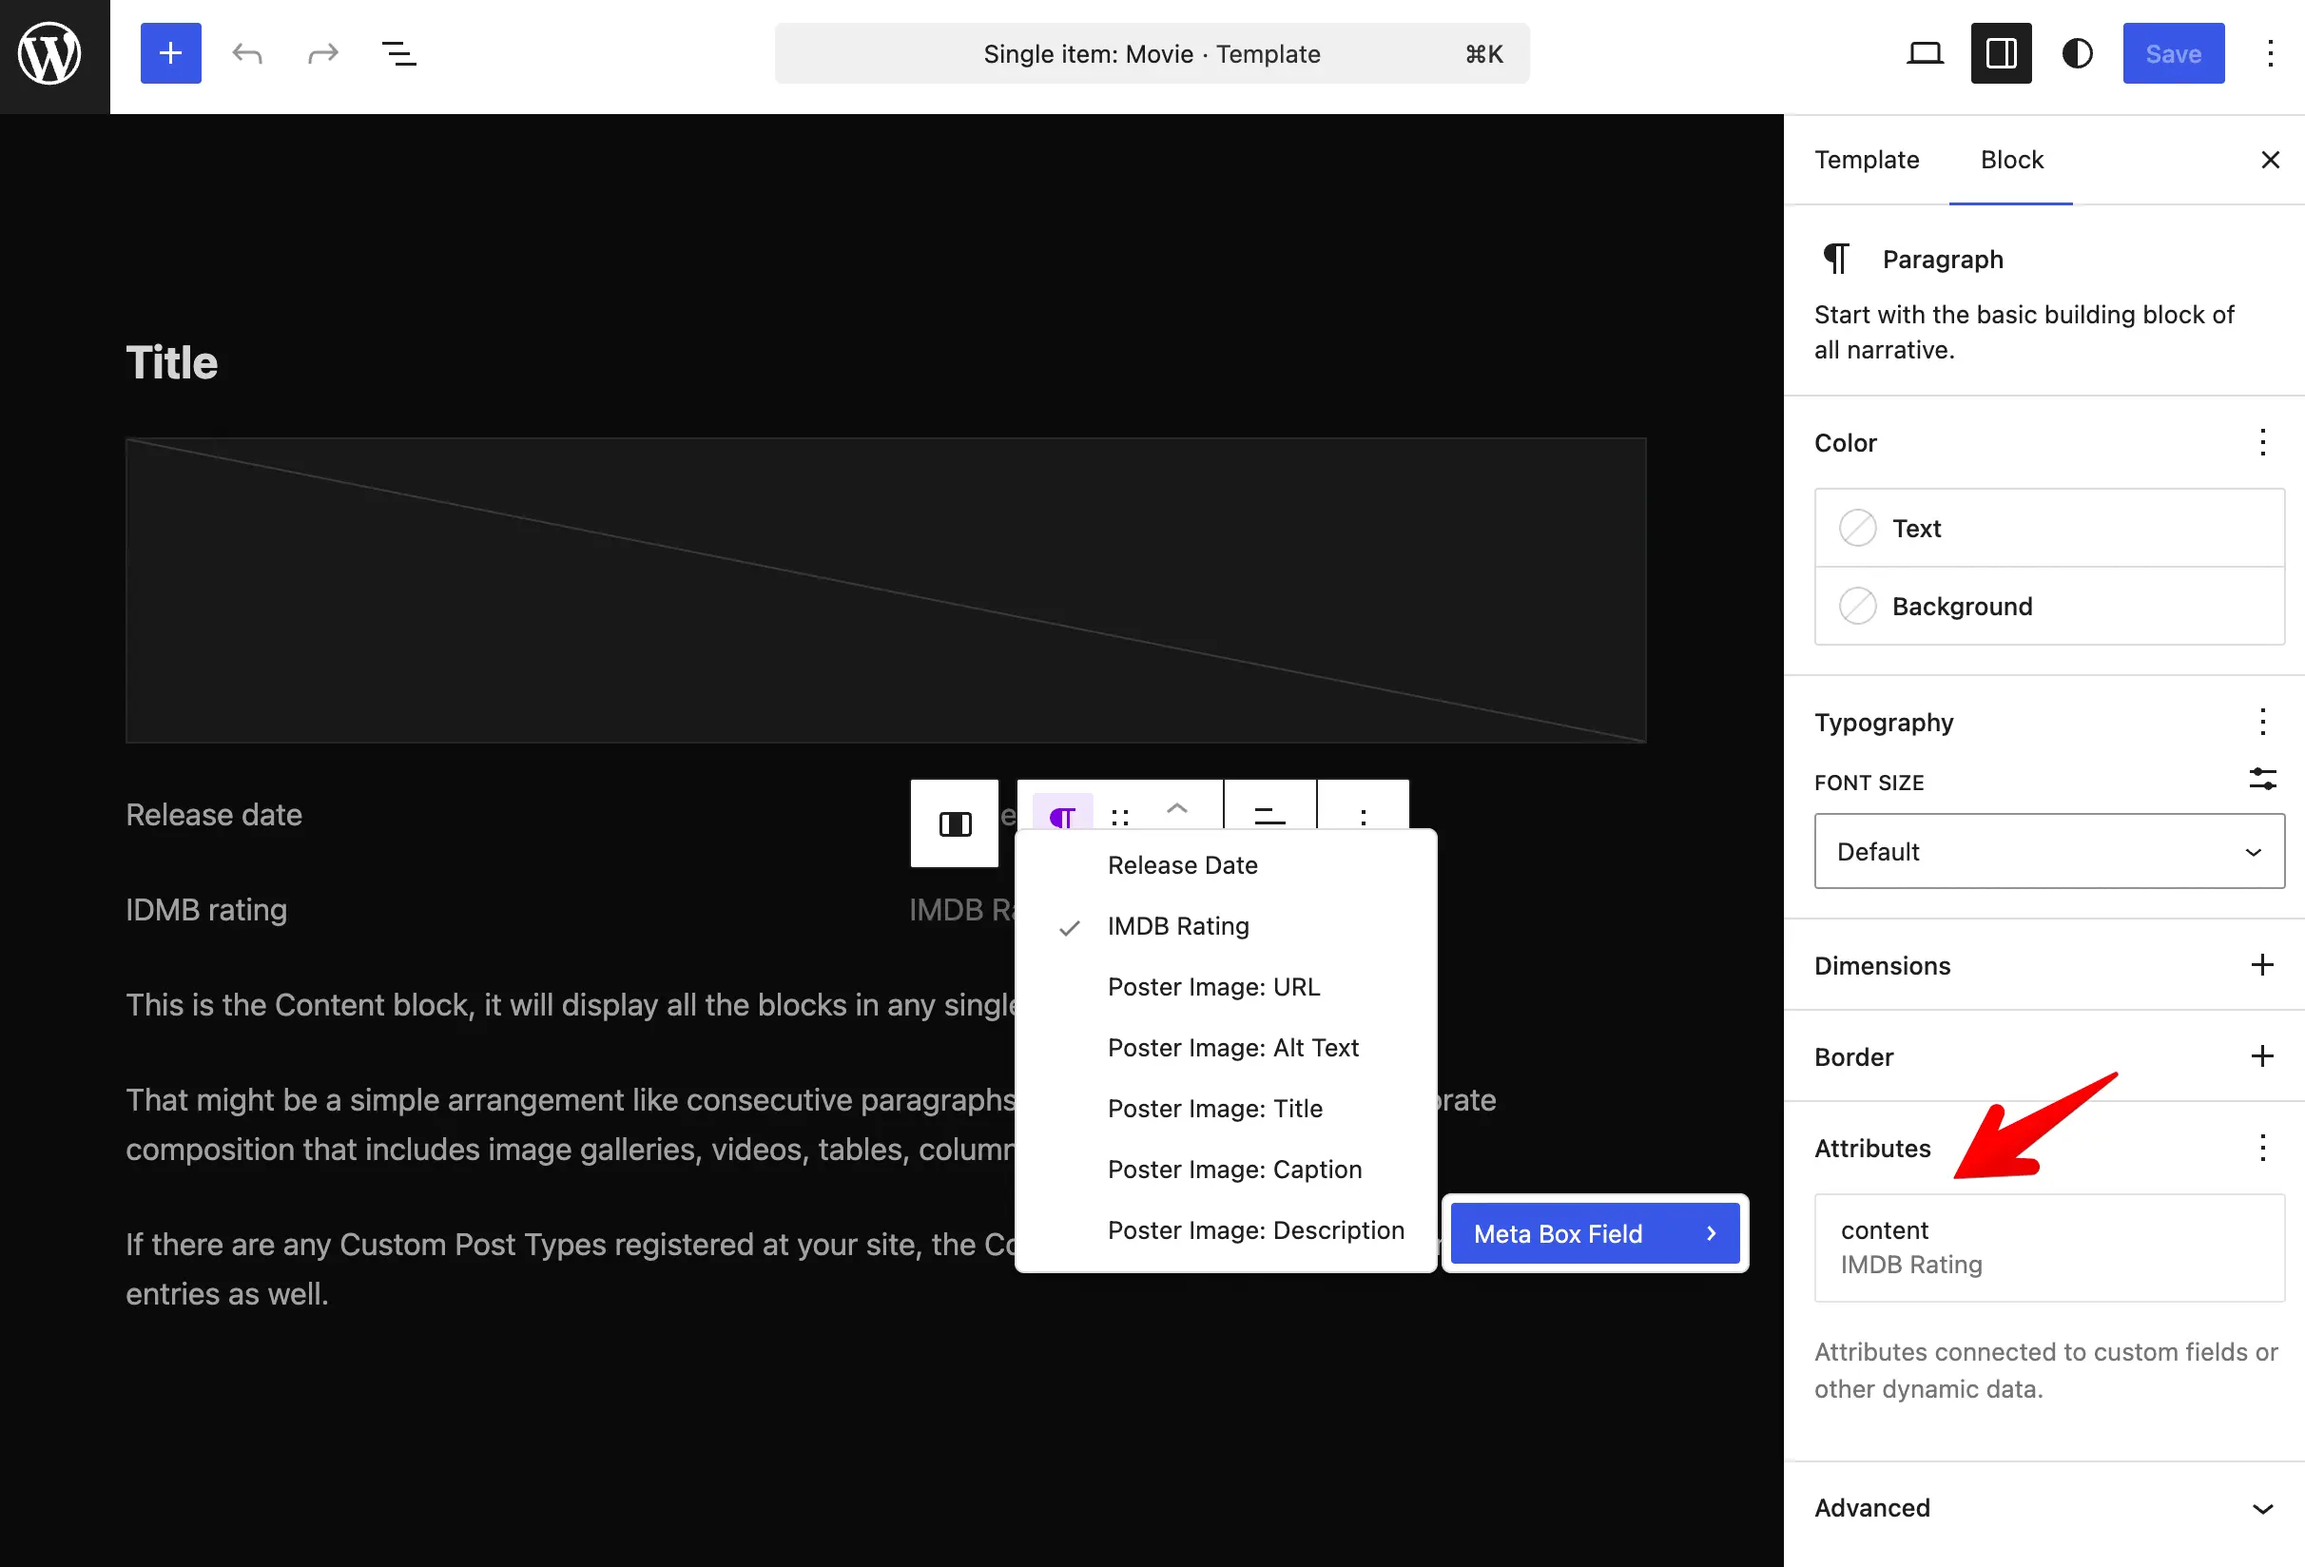
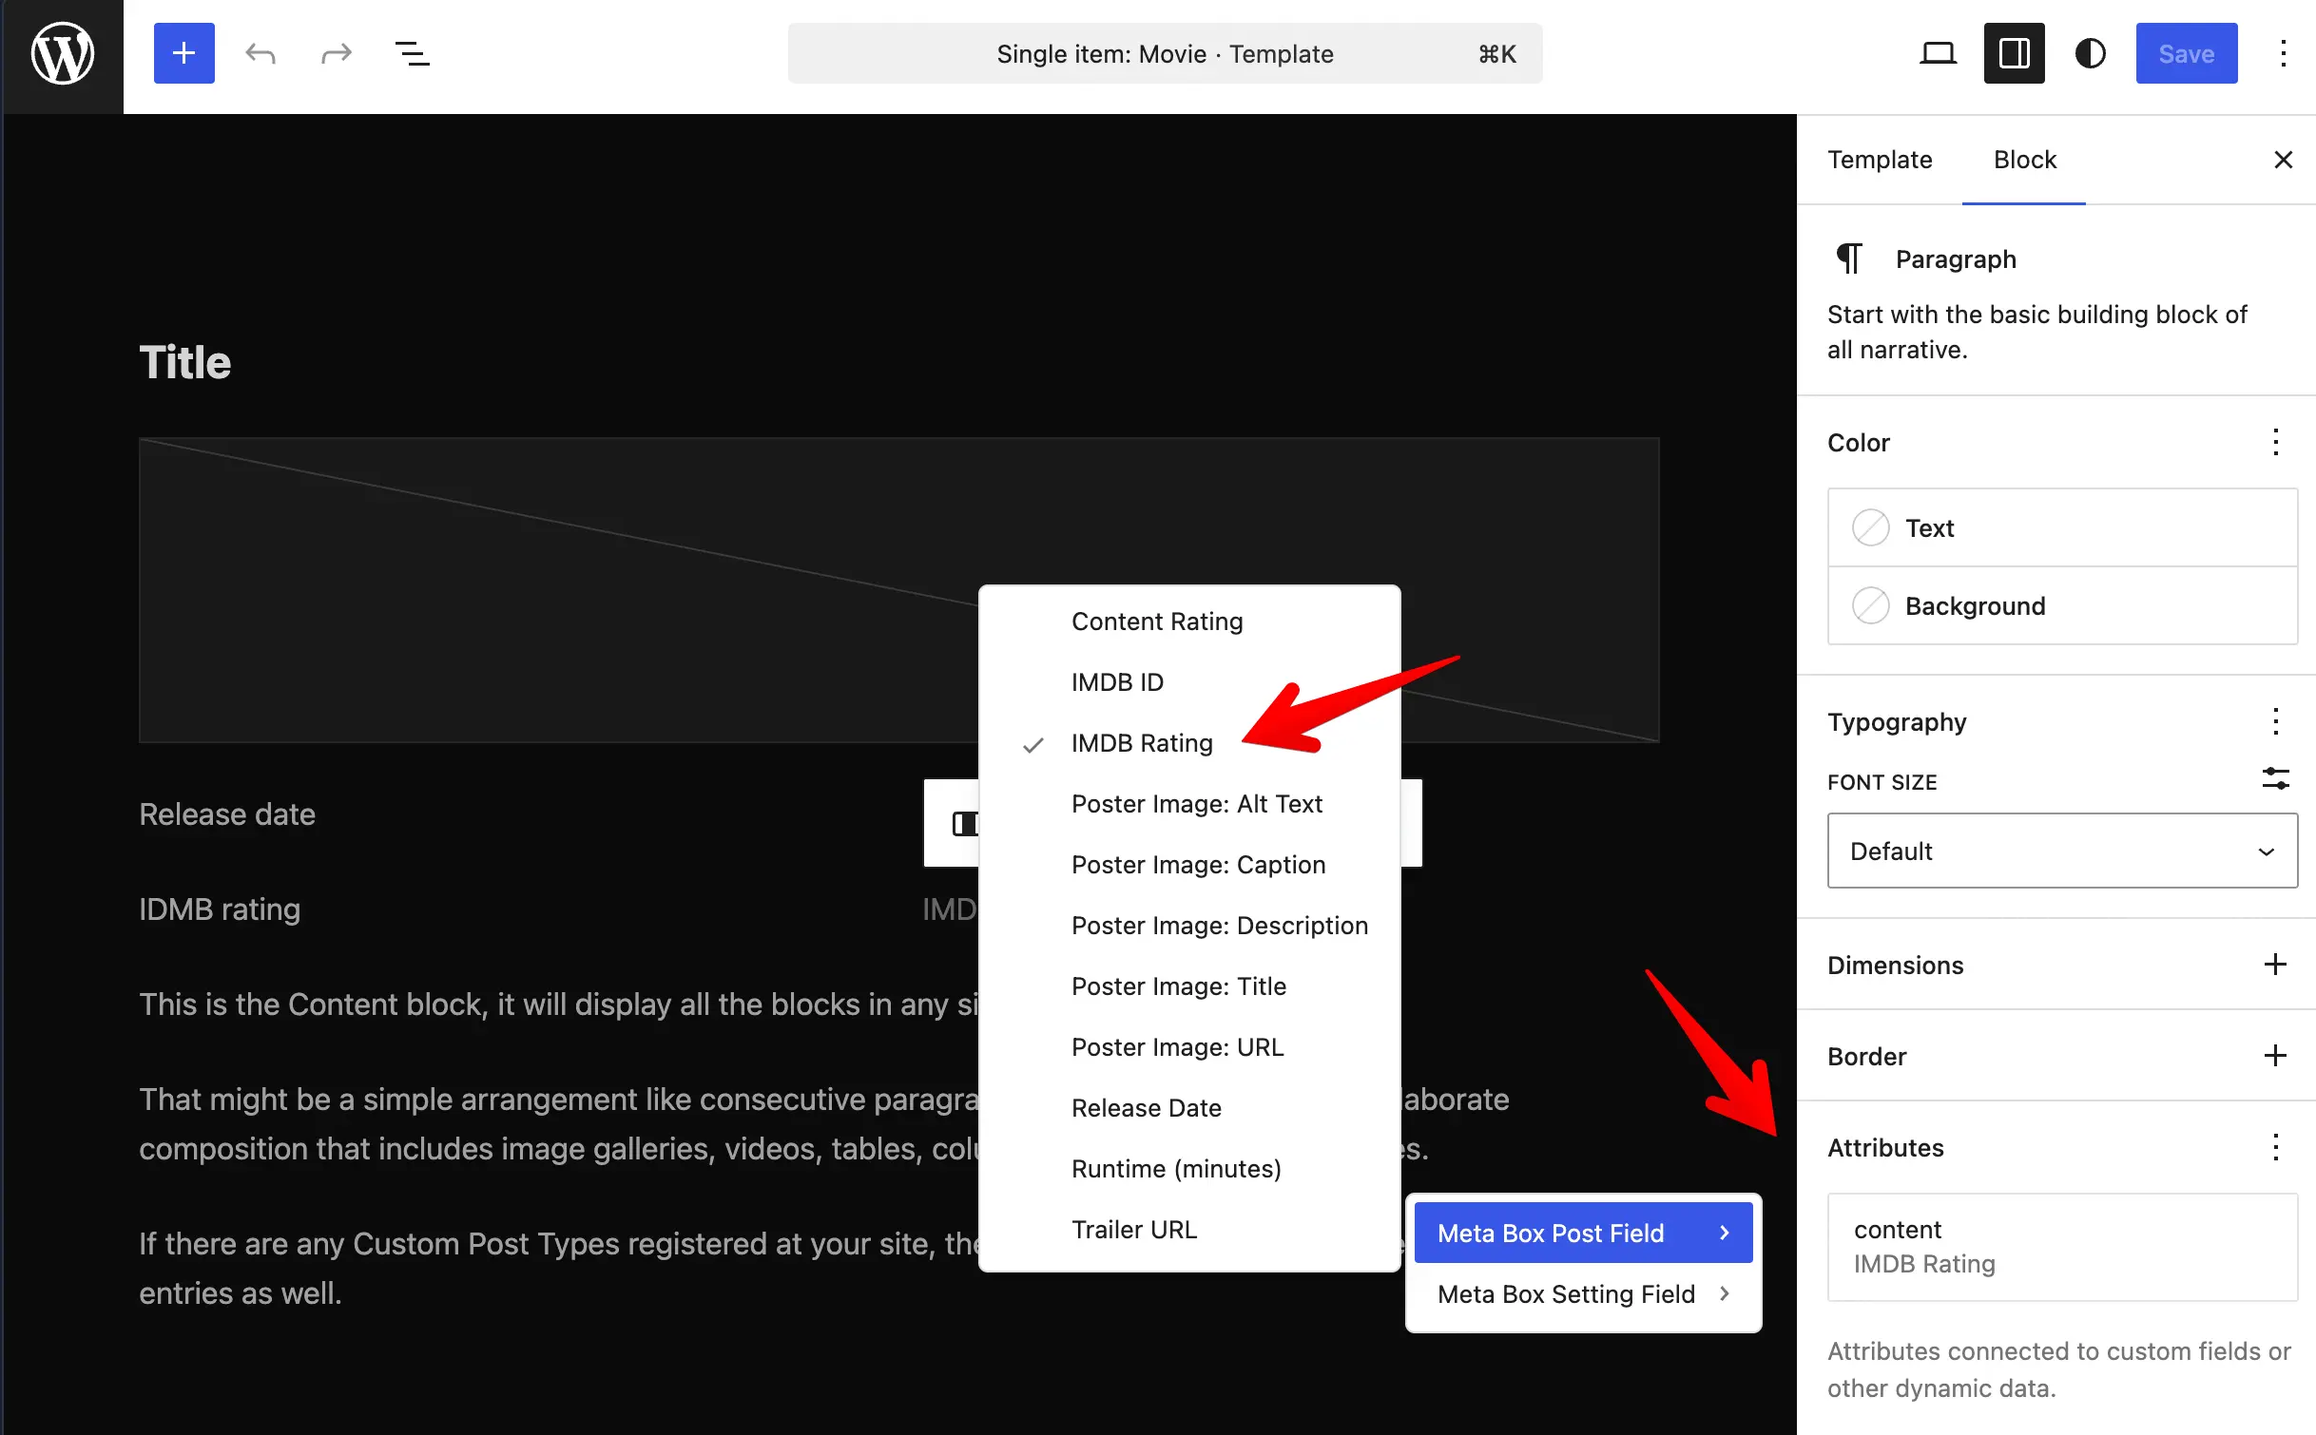
Update block bindings docs for the Meta Box refactor.
Document opt-out hide_from_block_bindings, post/term/user/setting sources, and clearer limitation wording.

diff --git a/docs/block-bindings.md b/docs/block-bindings.md
@@ -4,11 +4,11 @@ title: Block bindings
 
 Custom fields store structured data - event dates, subtitles, cover images, prices - but that data does not appear on the front end by itself. You still need a way to [display it](/custom-fields/#displaying-fields).
 
-[Block bindings](https://developer.wordpress.org/block-editor/reference-guides/block-api/block-bindings/) do that in Gutenberg. Like **dynamic data** in page builders, they connect a Meta Box field to a core block - a Paragraph shows your subtitle, an Image block shows your cover photo. Meta Box registers a custom source, **Meta Box Field** (`meta-box/field`), so you can set this up without PHP templates or a custom block.
+[Block bindings](https://developer.wordpress.org/block-editor/reference-guides/block-api/block-bindings/) do that in Gutenberg. Like **dynamic data** in page builders, they connect a Meta Box field to a core block - a Paragraph shows your subtitle, an Image block shows your cover photo. Meta Box registers your fields as block binding sources by default, so you can use them in Gutenberg without PHP templates or a custom block.
 
 ## Why use block bindings?
 
-Block bindings bring Meta Box field data into Gutenberg - connect any enabled post field to Paragraph, Heading, Image, Button, and other core blocks, right in the editor.
+Block bindings bring Meta Box field data into Gutenberg - connect fields from posts, terms, users, or settings pages to Paragraph, Heading, Image, Button, and other core blocks, right in the editor.
 
 - **Like dynamic data, but for Gutenberg** - pick a field, and the block shows its value on the front end.
 - **No extra code** - bind a Paragraph or Image block directly to a field.
@@ -19,17 +19,30 @@ They work in post content, block templates, and synced patterns - alongside [oth
 
 This feature requires **WordPress 6.5+**. The **Attributes** panel in the block editor (to pick a field visually) requires **WordPress 6.9+**.
 
-## Enabling block bindings for a field
+## Binding sources
 
-Block bindings are **opt-in**. Only fields you enable appear in the block editor bindings UI.
+Meta Box registers a separate source for each object type:
+
+Source | Label | Available with
+---|---|---
+`meta-box/post-field` | **Meta Box Post Field** | Meta Box (posts and custom post types)
+`meta-box/term-field` | **Meta Box Term Field** | [MB Term Meta](/extensions/mb-term-meta/)
+`meta-box/user-field` | **Meta Box User Field** | [MB User Meta](/extensions/mb-user-meta/)
+`meta-box/setting-field` | **Meta Box Setting Field** | [MB Settings Page](/extensions/mb-settings-page/)
+
+In the block editor, pick the source that matches where your field is stored, then choose the field (or a field property for structured fields).
+
+## Hiding a field from block bindings
+
+By default, Meta Box makes fields available for block bindings. If you do not want a field to appear in the block editor bindings UI, you can hide it.
 
 ### Using MB Builder
 
-1. Edit a field in [MB Builder](/extensions/meta-box-builder/).
-2. Open the **Advanced** tab in [field settings](/field-settings/).
-3. Turn on **Enable block bindings?**.
+1. Edit a field.
+2. Open the **Advanced** tab in field settings panel.
+3. Turn on **Hide from block bindings?**.
 
-![Enable block bindings for fields in the builder](img/enable-block-bindings.webp)
+![Hide a field from block bindings in the builder](img/hide-from-block-bindings.webp)
 
 :::info
 
@@ -39,7 +52,7 @@ The instruction above uses [MB Builder](/extensions/meta-box-builder/), an exten
 
 ### Using code
 
-Add `'block_bindings' => true` to the [field settings](/creating-fields-with-code/#fields):
+Add `'hide_from_block_bindings' => true` to the [field settings](/creating-fields-with-code/#fields):
 
 ```php
 add_filter( 'rwmb_meta_boxes', function ( $meta_boxes ) {
@@ -48,14 +61,14 @@ add_filter( 'rwmb_meta_boxes', function ( $meta_boxes ) {
 		'post_types' => 'movie',
 		'fields'     => [
 			[
-				'name'           => 'IMDB Rating',
-				'id'             => 'imdb_rating',
-				'type'           => 'number',
-				'min'            => 0,
-				'max'            => 10,
-				'step'           => 0.1,
+				'name'                     => 'IMDB Rating',
+				'id'                       => 'imdb_rating',
+				'type'                     => 'number',
+				'min'                      => 0,
+				'max'                      => 10,
+				'step'                     => 0.1,
 				// highlight-next-line
-				'block_bindings' => true,
+				'hide_from_block_bindings' => true,
 			],
 		],
 	];
@@ -66,26 +79,26 @@ add_filter( 'rwmb_meta_boxes', function ( $meta_boxes ) {
 
 ## Binding a block to a field
 
-1. Edit a post (or a template that has post context) in the block editor.
+1. Edit a post, template, or pattern in the block editor.
 2. Select a block that supports bindings (for example Paragraph, Heading, Button, or Image).
 3. In the block settings sidebar, open the **Attributes** panel.
 4. Choose the attribute to bind (for example **Content** for a paragraph, or **URL** for an image).
-5. Select the **Meta Box Field** source, then pick your field (or a field property for structured fields).
+5. Select the Meta Box source for your field type (for example **Meta Box Post Field**), then pick your field (or a field property for structured fields).
 
-The bound attribute uses the field value when the post is rendered on the front end.
+The bound attribute uses the field value when the content is rendered on the front end.
 
-![Bind a block attribute to a Meta Box's custom field](img/block-bindings.webp)
+![Bind a block attribute to a Meta Box field](img/block-bindings.webp)
 
 :::tip Binding without the UI
 
-The **Attributes** panel is available from **WordPress 6.9** onward. On **WordPress 6.5 to 6.8**, you can still bind attributes in the **Code editor**. Example for a paragraph bound to an `imdb_rating` field:
+The **Attributes** panel is available from **WordPress 6.9** onward. On **WordPress 6.5 to 6.8**, you can still bind attributes in the **Code editor**. Example for a paragraph bound to an `imdb_rating` post field:
 
 ```html
 <!-- wp:paragraph {
   "metadata":{
     "bindings":{
       "content":{
-        "source":"meta-box/field",
+        "source":"meta-box/post-field",
         "args":{"id":"imdb_rating"}
       }
     }
@@ -94,6 +107,8 @@ The **Attributes** panel is available from **WordPress 6.9** onward. On **WordPr
 <p>Fallback text</p>
 <!-- /wp:paragraph -->
 ```
+
+Use `meta-box/term-field`, `meta-box/user-field`, or `meta-box/setting-field` for fields on terms, users, or settings pages.
 
 :::
 
@@ -108,11 +123,11 @@ Structured fields expose **properties** you can bind separately. In the UI they 
   "metadata":{
     "bindings":{
       "url":{
-        "source":"meta-box/field",
+        "source":"meta-box/post-field",
         "args":{"id":"poster","key":"url"}
       },
       "alt":{
-        "source":"meta-box/field",
+        "source":"meta-box/post-field",
         "args":{"id":"poster","key":"alt"}
       }
     }
@@ -141,6 +156,6 @@ If `key` is omitted, Meta Box falls back to the bound block attribute name (for 
 
 ## Limitations
 
-- **[Cloneable](/cloning-fields/) and multiple fields** use the **first** value only.
+- **One value only.** If a field is [cloneable](/cloning-fields/) or stores multiple values (for example a multi-select or checkbox list), the binding uses only the **first** value.
 - **Editor preview.** Bound attributes are resolved on the front end. The editor lists available fields for binding but does not show live field values in the canvas, and bound values are not editable from the block.
-- **Access.** Password-protected posts and posts the visitor cannot read do not expose bound values.
+- **Access.** Bound values are only returned when the visitor can view the related object. For posts, that means password-protected or private content stays hidden from unauthorized visitors. For non-public taxonomies, term fields follow the same idea.

diff --git a/docs/creating-fields-with-code.md b/docs/creating-fields-with-code.md
@@ -267,7 +267,7 @@ After | `after` | Custom HTML outputted after field's HTML.
 Custom CSS class | `class` | Custom CSS class, in case you want to customize the field. Optional.
 Custom sanitize callback | `sanitize_callback` | Custom PHP callback for sanitizing field value before saving into the database. Set it to `none` to bypass the sanitization. See [more details](/sanitization/).
 Save field value | `save_field` | Whether to save field value. Optional. Default `true`. This option doesn't work in the block editor (Gutenberg).
-Enable block bindings? | `block_bindings` | Allow this field to be used as a block binding source in the block editor. Optional. Default `false`. See [more details](/block-bindings/).
+Hide from block bindings? | `hide_from_block_bindings` | Hide this field from the block editor bindings UI. Optional. Default `false`. See [more details](/block-bindings/).
 Custom HTML5 attributes | `attributes` | Custom attributes for inputs. See [more details](/custom-attributes/).
 Validation | `validation` | Validation rules for fields. Optional. See [more details](/validation/).
 Custom settings | N/A | Custom field settings, useful when you want to add your settings to fields.

diff --git a/docs/field-settings.md b/docs/field-settings.md
@@ -52,7 +52,7 @@ After | `after` | Custom HTML outputted after field's HTML.
 Custom CSS class | `class` | Custom CSS class, in case you want to customize the field. Optional.
 Custom sanitize callback | `sanitize_callback` | Custom PHP callback for sanitizing field value before saving into the database. Set it to `none` to bypass the sanitization. See [more details](/sanitization/).
 Save field value | `save_field` | Whether to save field value. Optional. Default `true`. This option doesn't work in the block editor (Gutenberg).
-Enable block bindings? | `block_bindings` | Allow this field to be used as a block binding source in the block editor. Optional. Default `false`. See [more details](/block-bindings/).
+Hide from block bindings? | `hide_from_block_bindings` | Hide this field from the block editor bindings UI. Optional. Default `false`. See [more details](/block-bindings/).
 Custom HTML5 attributes | `attributes` | Custom attributes for inputs. See [more details](/custom-attributes/).
 Validation | `validation` | Validation rules for fields. Optional. See [more details](/validation/).
 Custom settings | N/A | Custom field settings, useful when you want to add your settings to fields.
